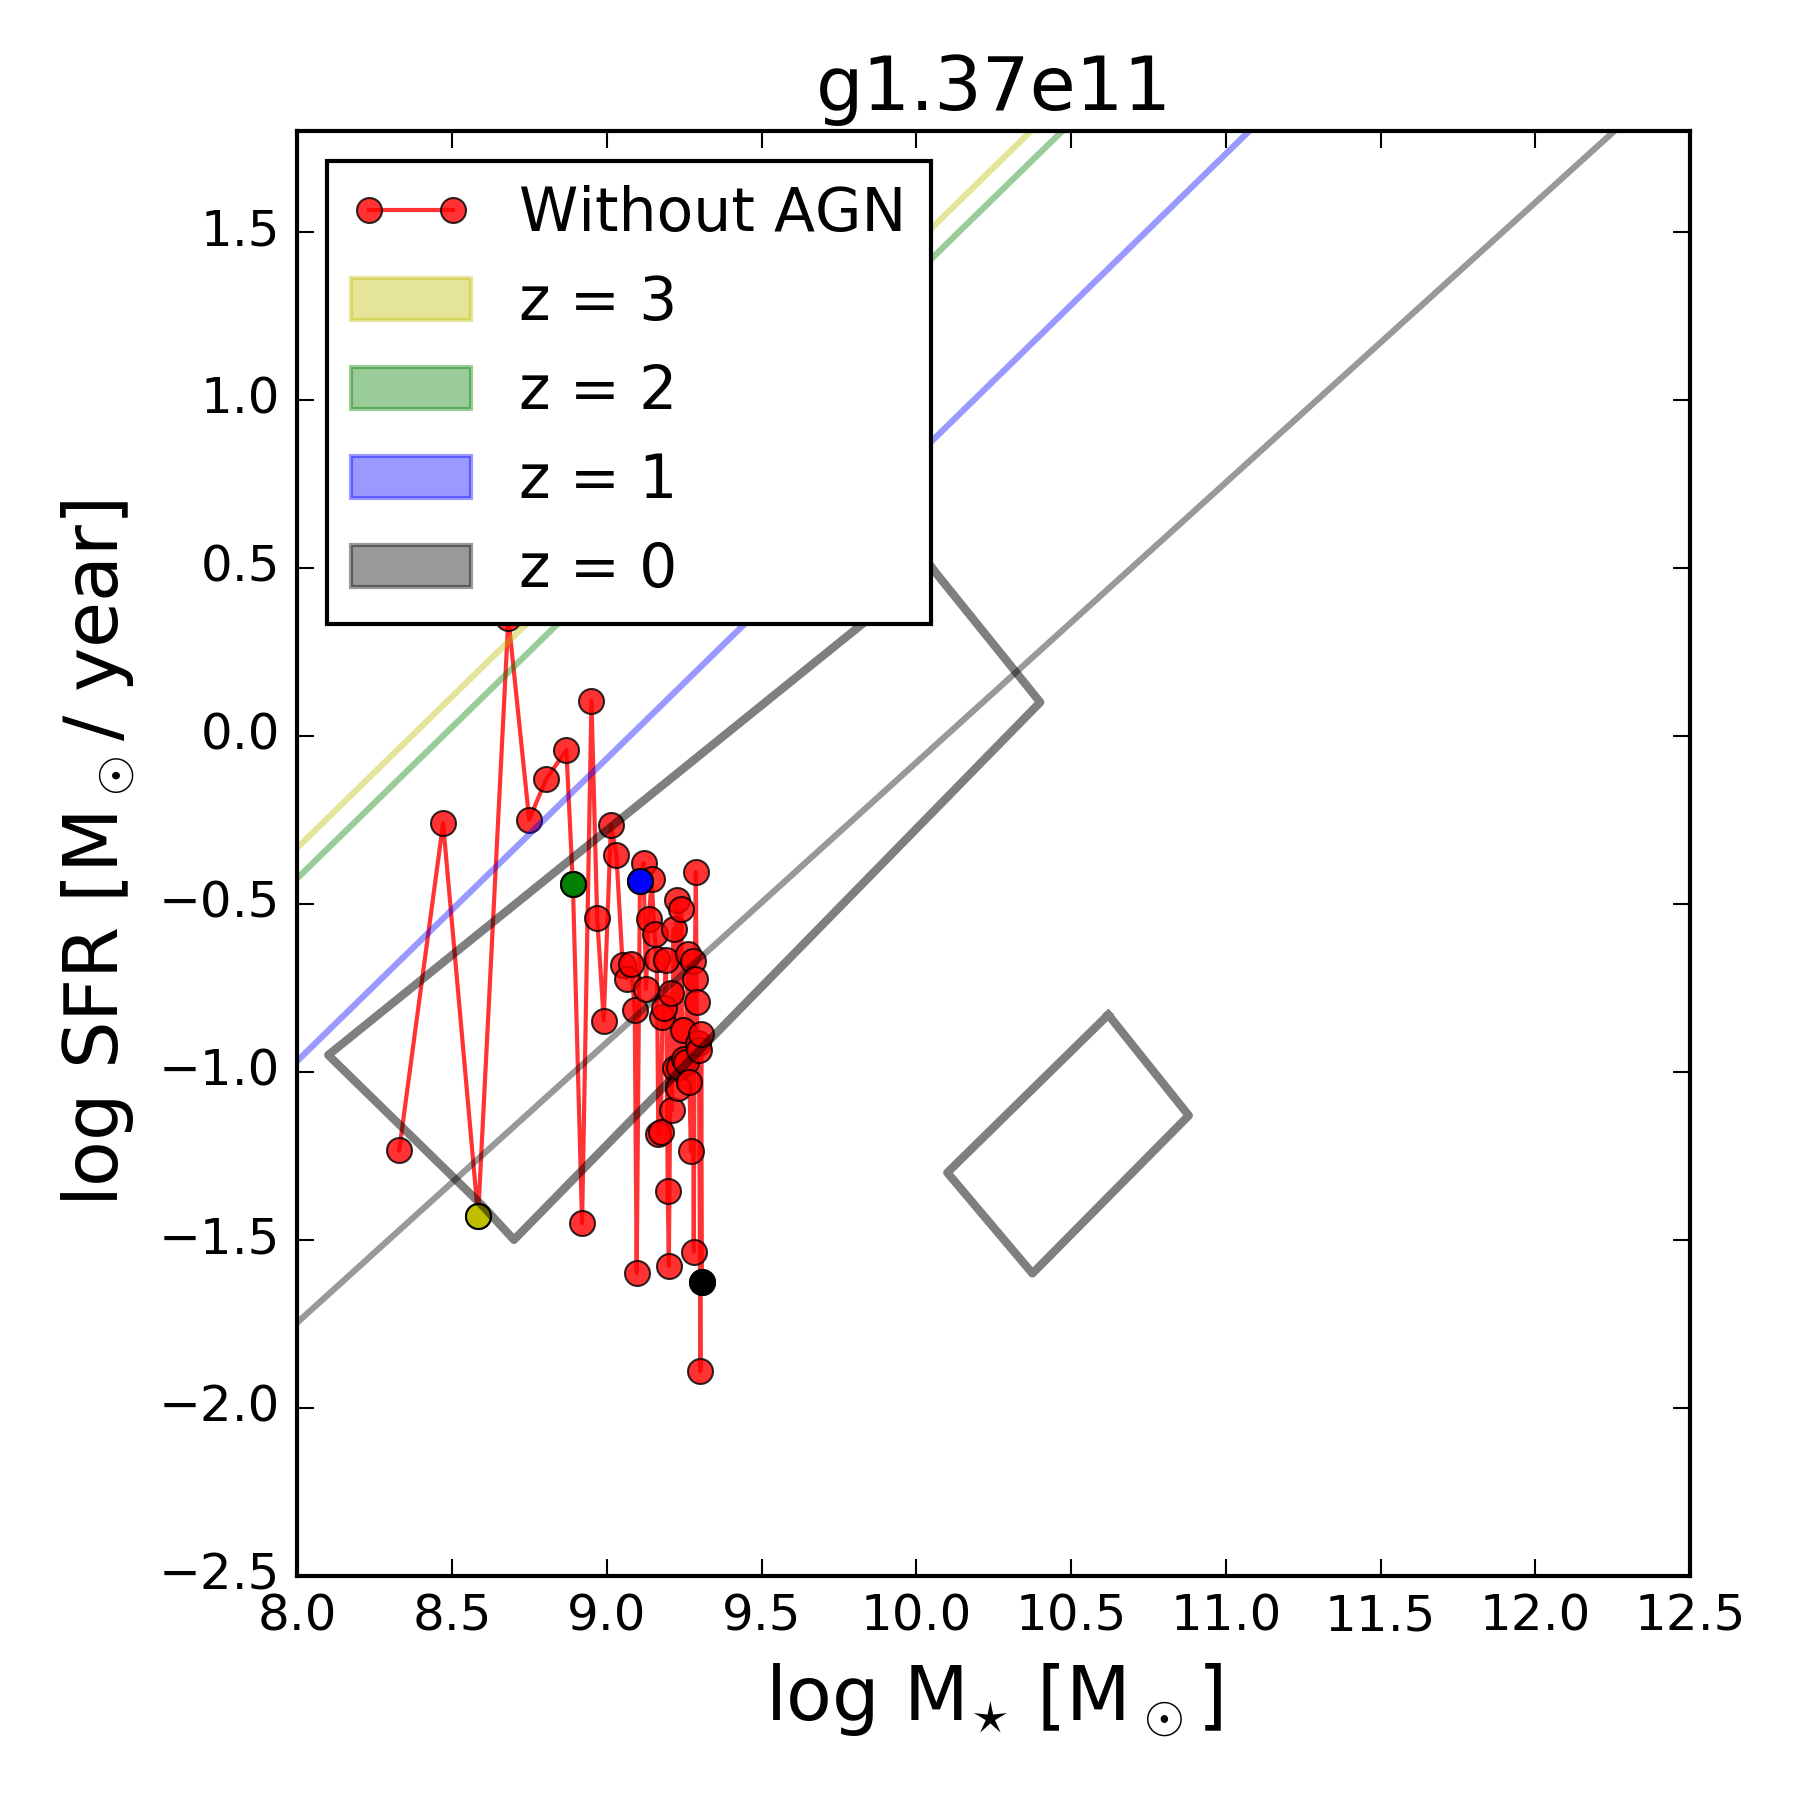
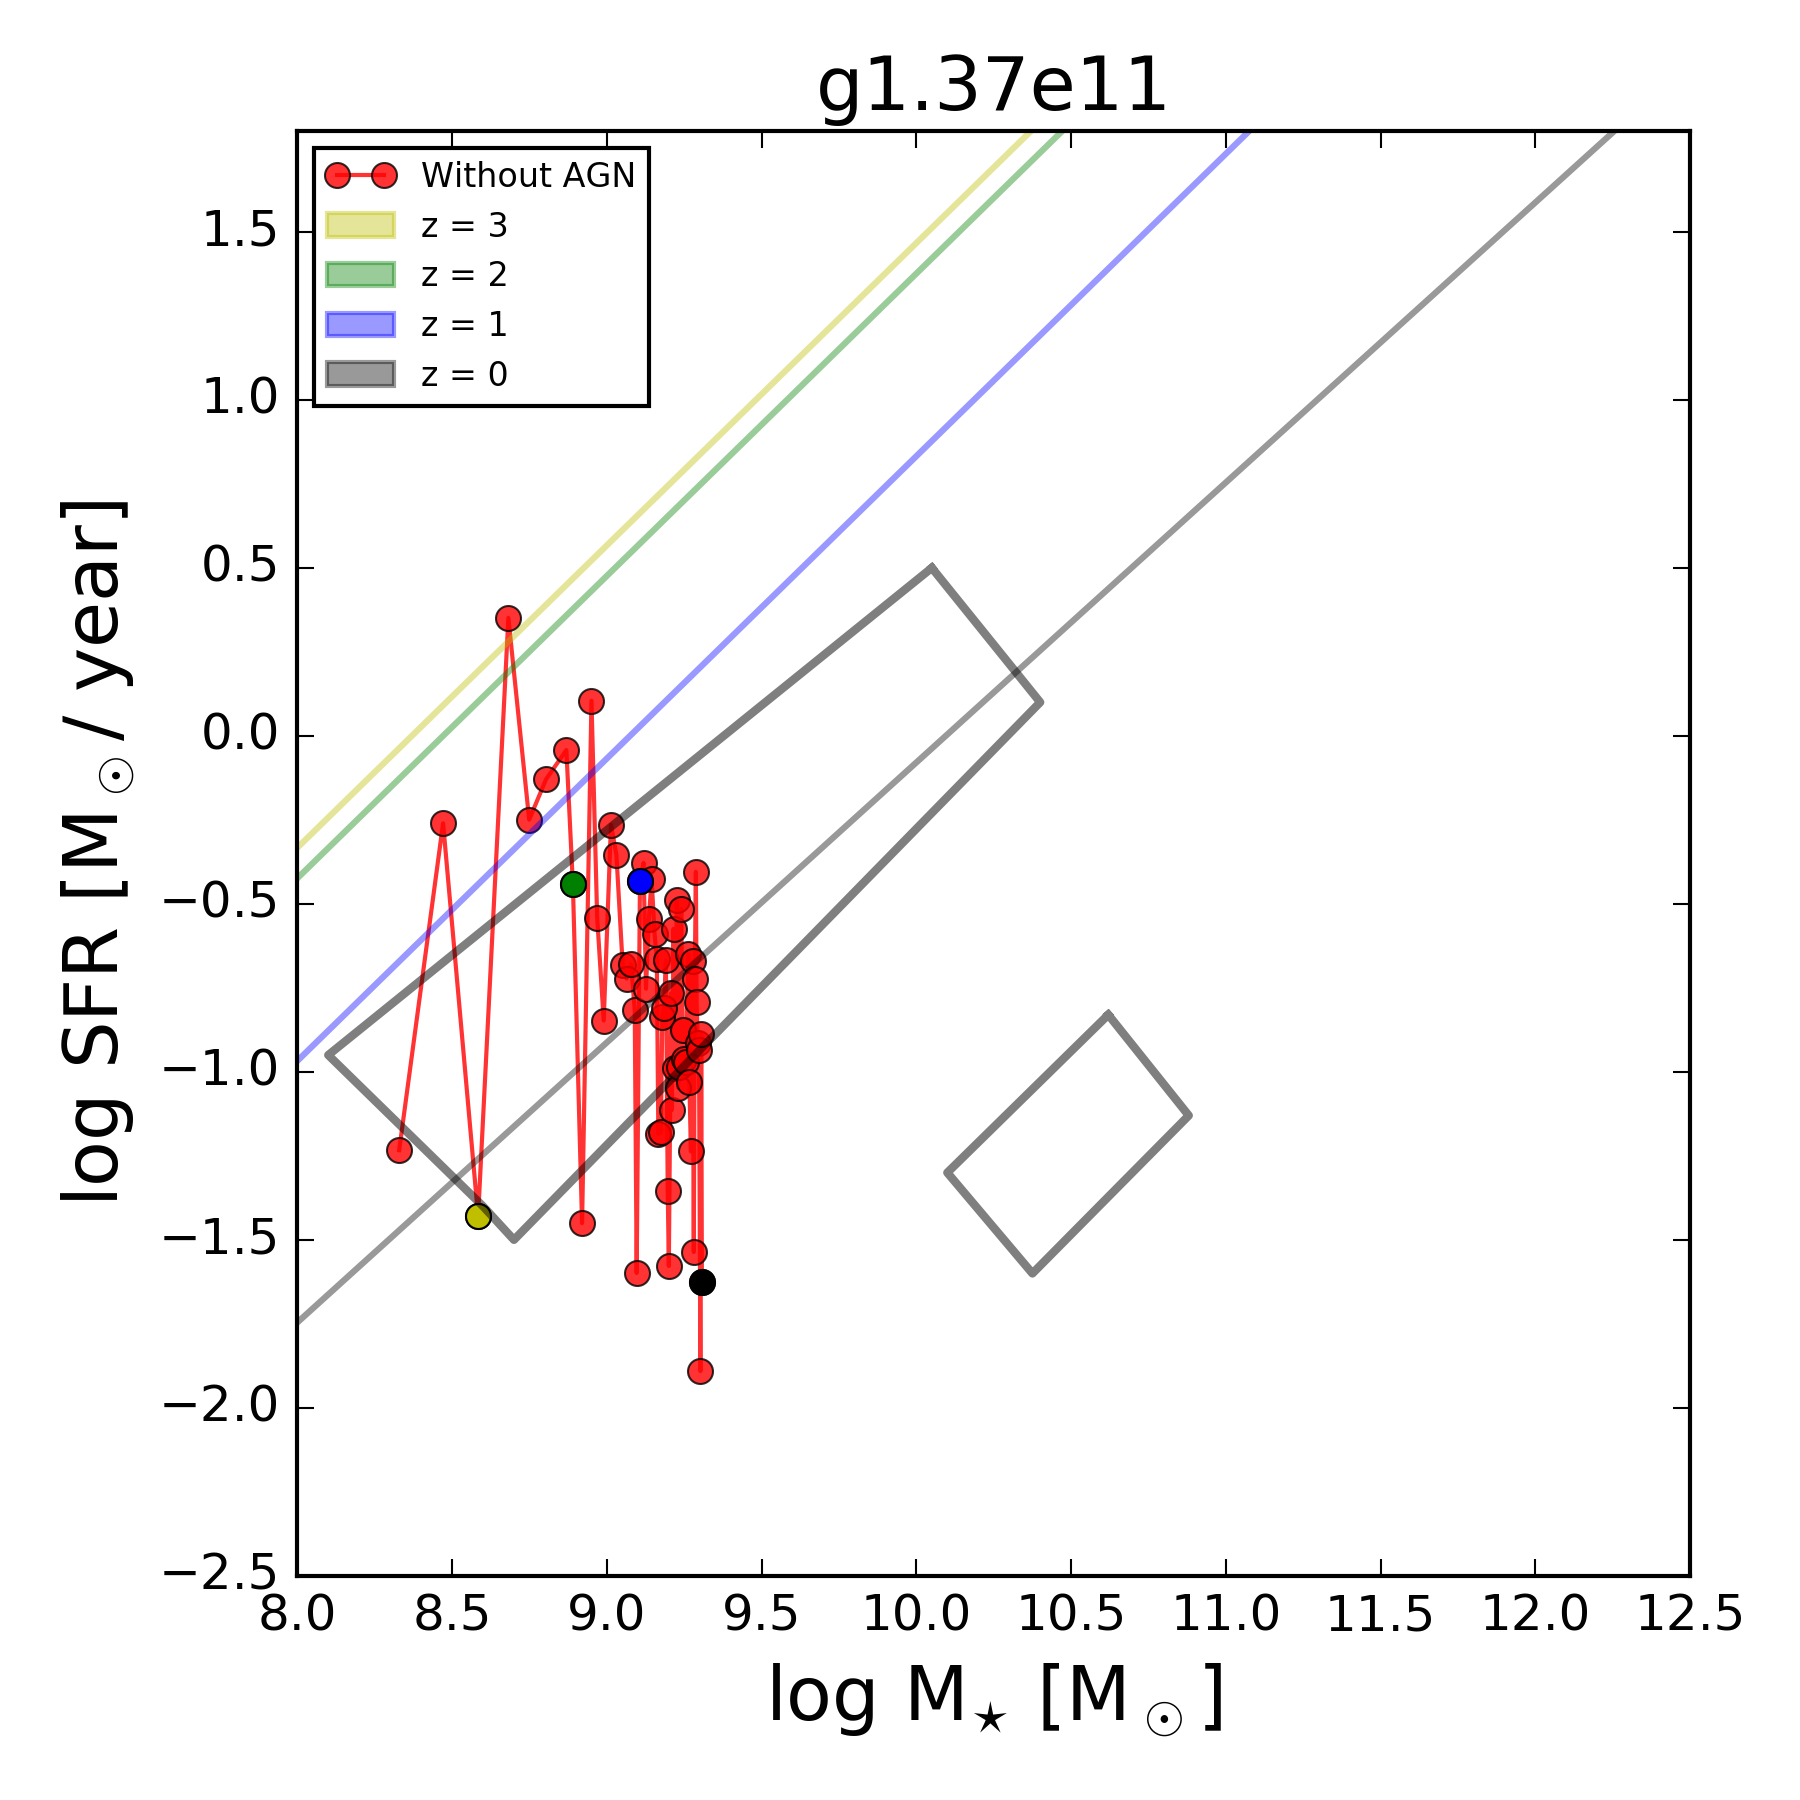
change legend size

diff --git a/3_trackslogbefore.py b/3_trackslogbefore.py
@@ -146,9 +146,9 @@ for g in galaxies:
     #agn_legend = mlines.Line2D([], [], color='k', marker='X',
     #markersize=15, label='AGN gals')
     if g == 'g2.79e12':
-        plt.legend(handles=[a1, a2, y_3_patch, y_2_patch, y_1_patch, y_0_patch,], loc=2)
+        plt.legend(handles=[a1, a2, y_3_patch, y_2_patch, y_1_patch, y_0_patch,], loc=2, prop={'size': 8})
     else:
-        plt.legend(handles=[a1, y_3_patch, y_2_patch, y_1_patch, y_0_patch,], loc=2)
+        plt.legend(handles=[a1, y_3_patch, y_2_patch, y_1_patch, y_0_patch,], loc=2, prop={'size': 8})
     #ax.set_facecolor('w')
     plt.ylabel("log SFR [M$_\odot$/ year]", fontsize=18)
     plt.xlabel("log M$_{\star}$ [M$_\odot$]", fontsize=18)
